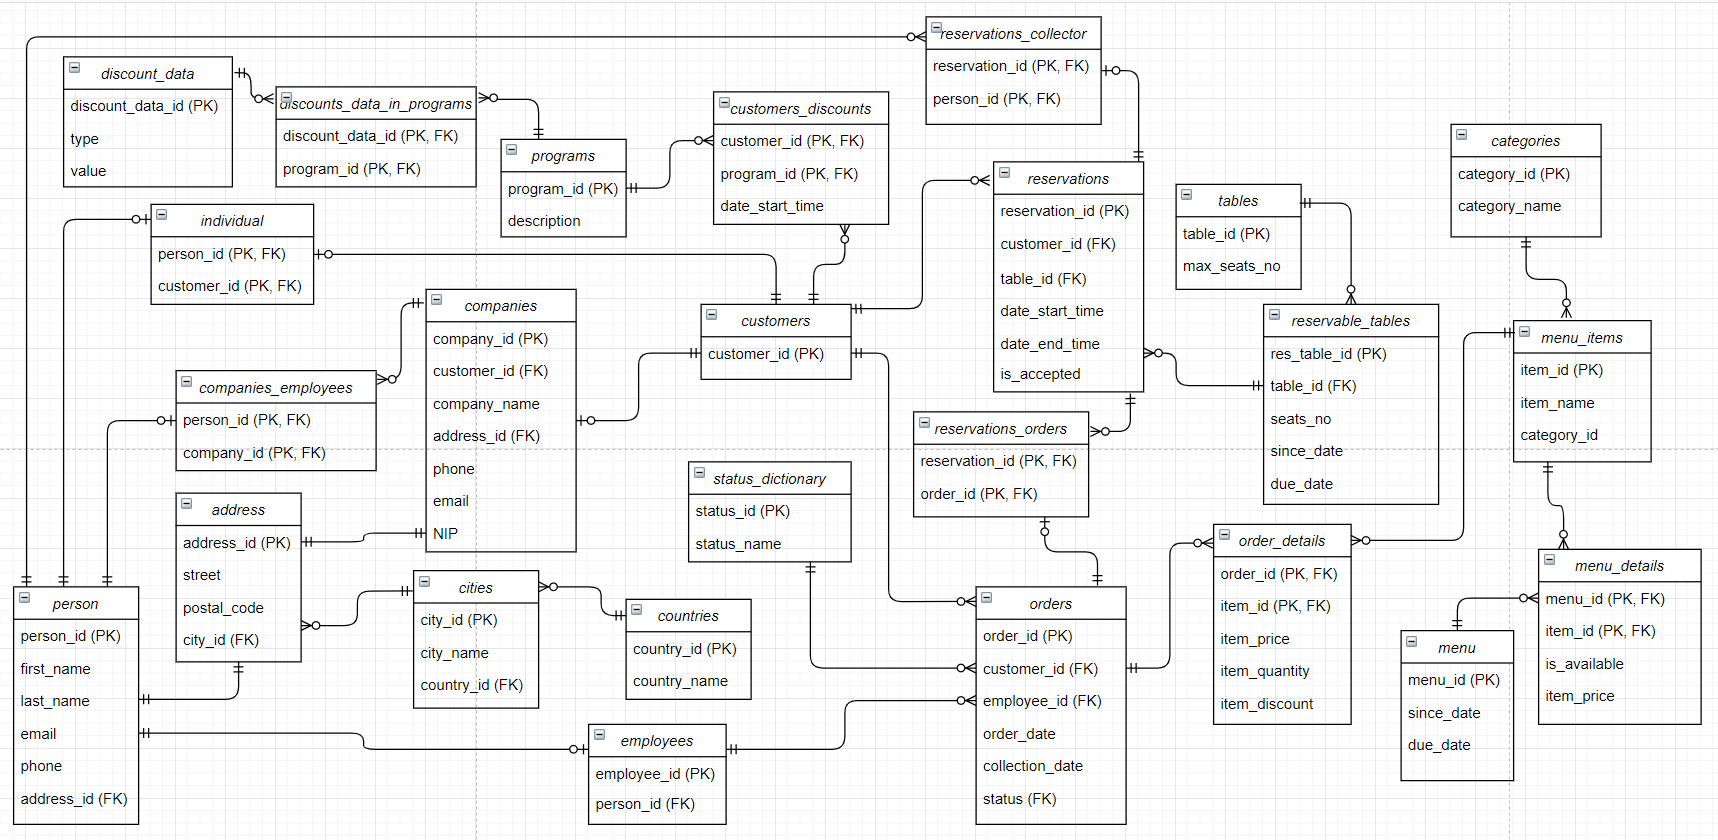
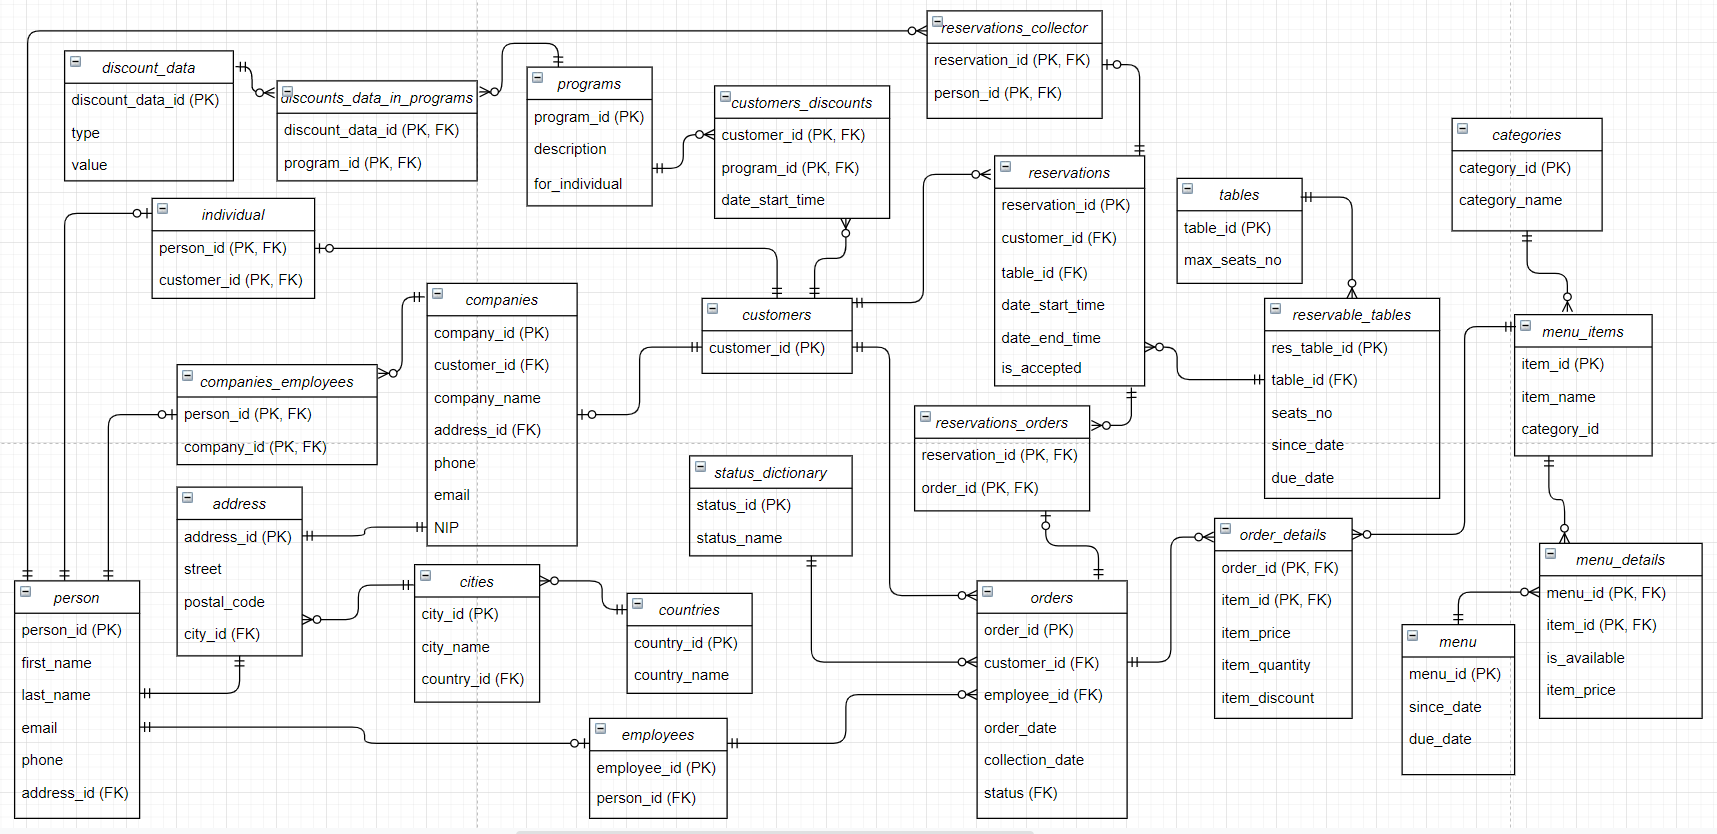
updated diagrams and table description

Changed region(s): [[0.0, 0.0, 1.0, 1.0]]

diff --git a/tableDescriptions.md b/tableDescriptions.md
@@ -1058,7 +1058,7 @@ GO
 [:arrow_double_up:](tableDescriptions.md#opisy-tabel)
 
 ### PROGRAMS
-Tabela przechowująca dane o programach rabatowych. Rekord składa się z identyfikatora (klucza głównego) oraz opisu programu rabatowego, wyświetlanego np. w ramach informacji dla klientów.
+Tabela przechowująca dane o programach rabatowych. Rekord składa się z identyfikatora (klucza głównego) oraz opisu programu rabatowego, wyświetlanego np. w ramach informacji dla klientów. Dodatkowo znajduje się tam także pole opisujące, czy dany program rabatowy dotyczy klientów indywidualnych (`for_individual=1`), czy firmowych (`for_individual=0`).
 ```sql
 USE [u_cyra_1]
 GO
